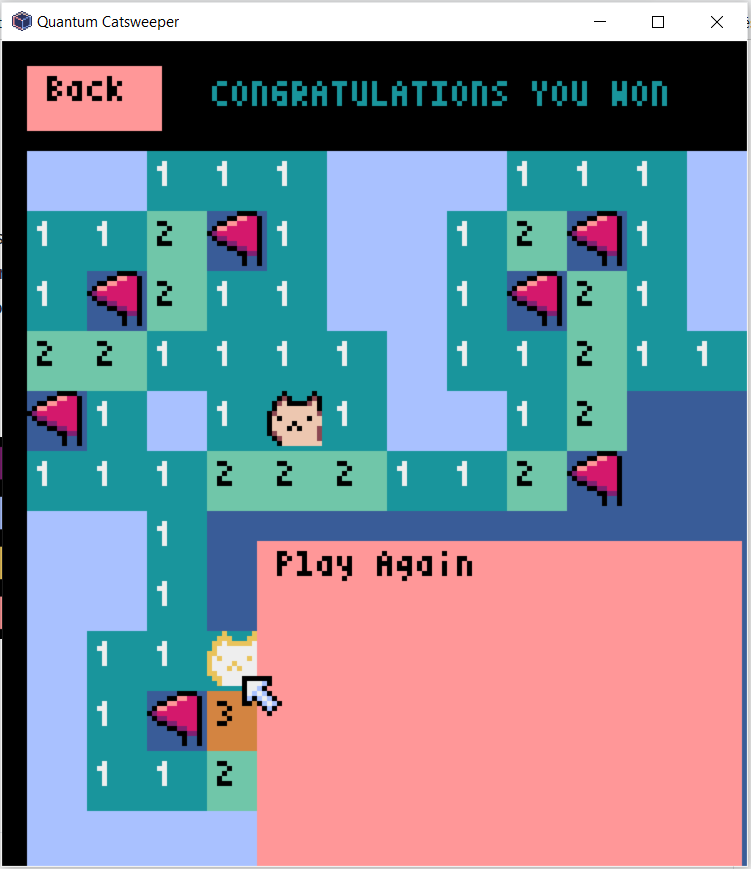
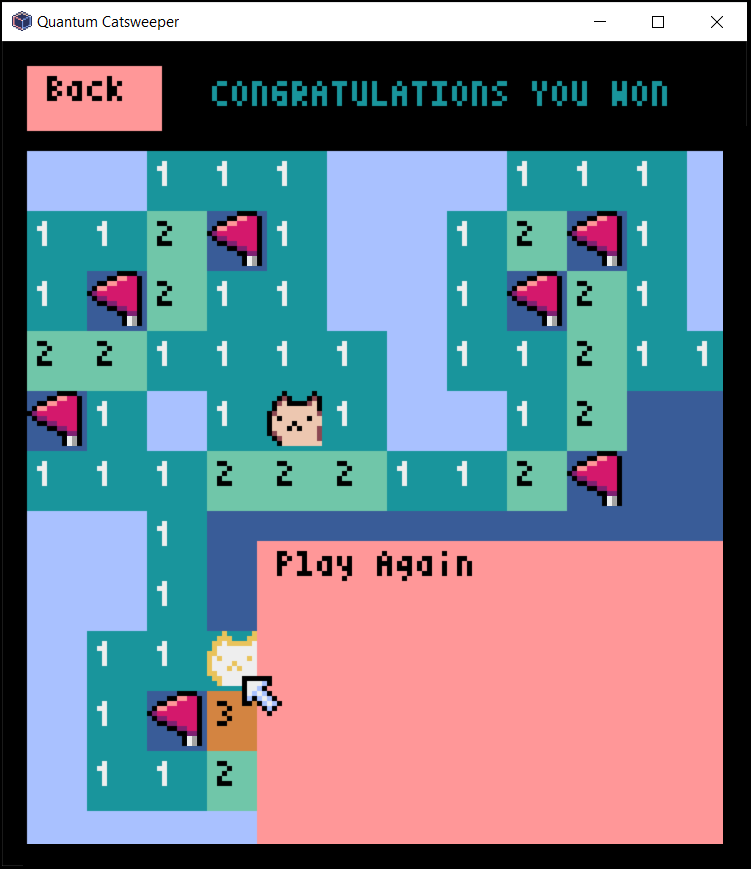
New sprites

diff --git a/qcatsweeper/gui.py b/qcatsweeper/gui.py
@@ -339,17 +339,17 @@ class QuantumCatsweeperApp:
                     # Golden Cat
                     elif cur_tile is ql.TileItems.GOLDEN_CAT:
                         pyxel.blt(_x, _y, self._main_tileset,
-                                  16, 0, self._grid_draw_size - 1, self._grid_draw_size - 1, 13)
+                                  16, 0, self._grid_draw_size - 1, self._grid_draw_size - 1, 11)
 
                     # Bomb defused
                     elif cur_tile is ql.TileItems.BOMB_DEFUSED:
                         pyxel.blt(_x, _y, self._main_tileset,
-                                  0, 0, self._grid_draw_size - 1, self._grid_draw_size - 1, 13)
+                                  0, 0, self._grid_draw_size - 1, self._grid_draw_size - 1, 11)
 
                     # Bomb exploded
                     elif cur_tile is ql.TileItems.BOMB_EXPLODED:
                         pyxel.blt(_x, _y, self._main_tileset,
-                                  0, 0, self._grid_draw_size - 1, -1 * (self._grid_draw_size - 1), 13)
+                                  0, 0, self._grid_draw_size - 1, -1 * (self._grid_draw_size - 1), 11)
 
                 # Golden Cat (debug)
                 elif cur_tile is ql.TileItems.GOLDEN_CAT and self.debugging:
@@ -362,7 +362,7 @@ class QuantumCatsweeperApp:
                     pyxel.rect(_x, _y, _x + self._grid_draw_size -
                                2, _y - 2 + self._grid_draw_size, 5)
                     pyxel.blt(_x, _y, self._main_tileset,
-                              32, 0, self._grid_draw_size - 1, self._grid_draw_size - 1, 13)
+                              32, 0, self._grid_draw_size - 1, self._grid_draw_size - 1, 11)
 
 
                 # Unclicked
@@ -410,7 +410,7 @@ class QuantumCatsweeperApp:
         cat_offset = math.sin(pyxel.frame_count * 0.1) * 2
         cat_flip = 1 if cat_offset >= 0 else -1
         pyxel.blt(cat_x + cat_offset, 62, self._main_tileset,
-                  0, 0, 16 * cat_flip, 16, 13)
+                  0, 0, 16 * cat_flip, 16, 11)
 
         # Draw button
         self.pyxel_button_centered('Play', 100)
